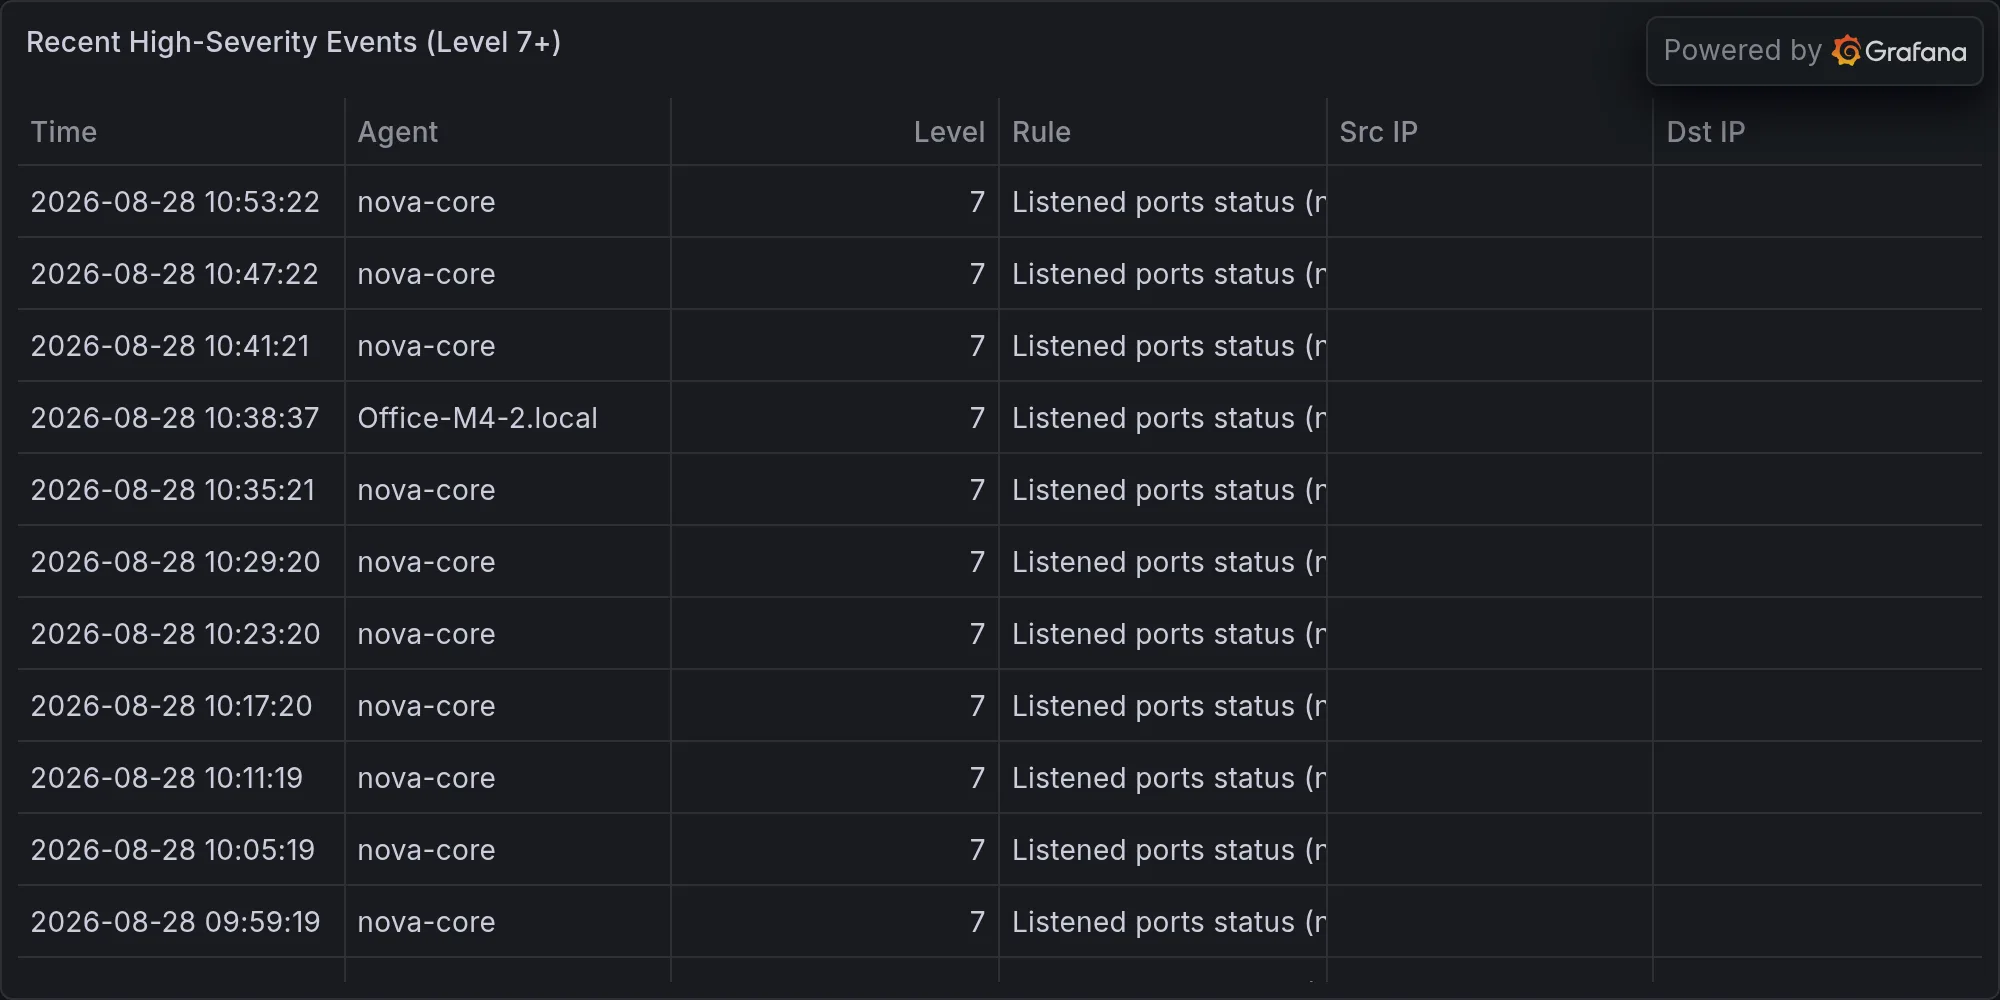
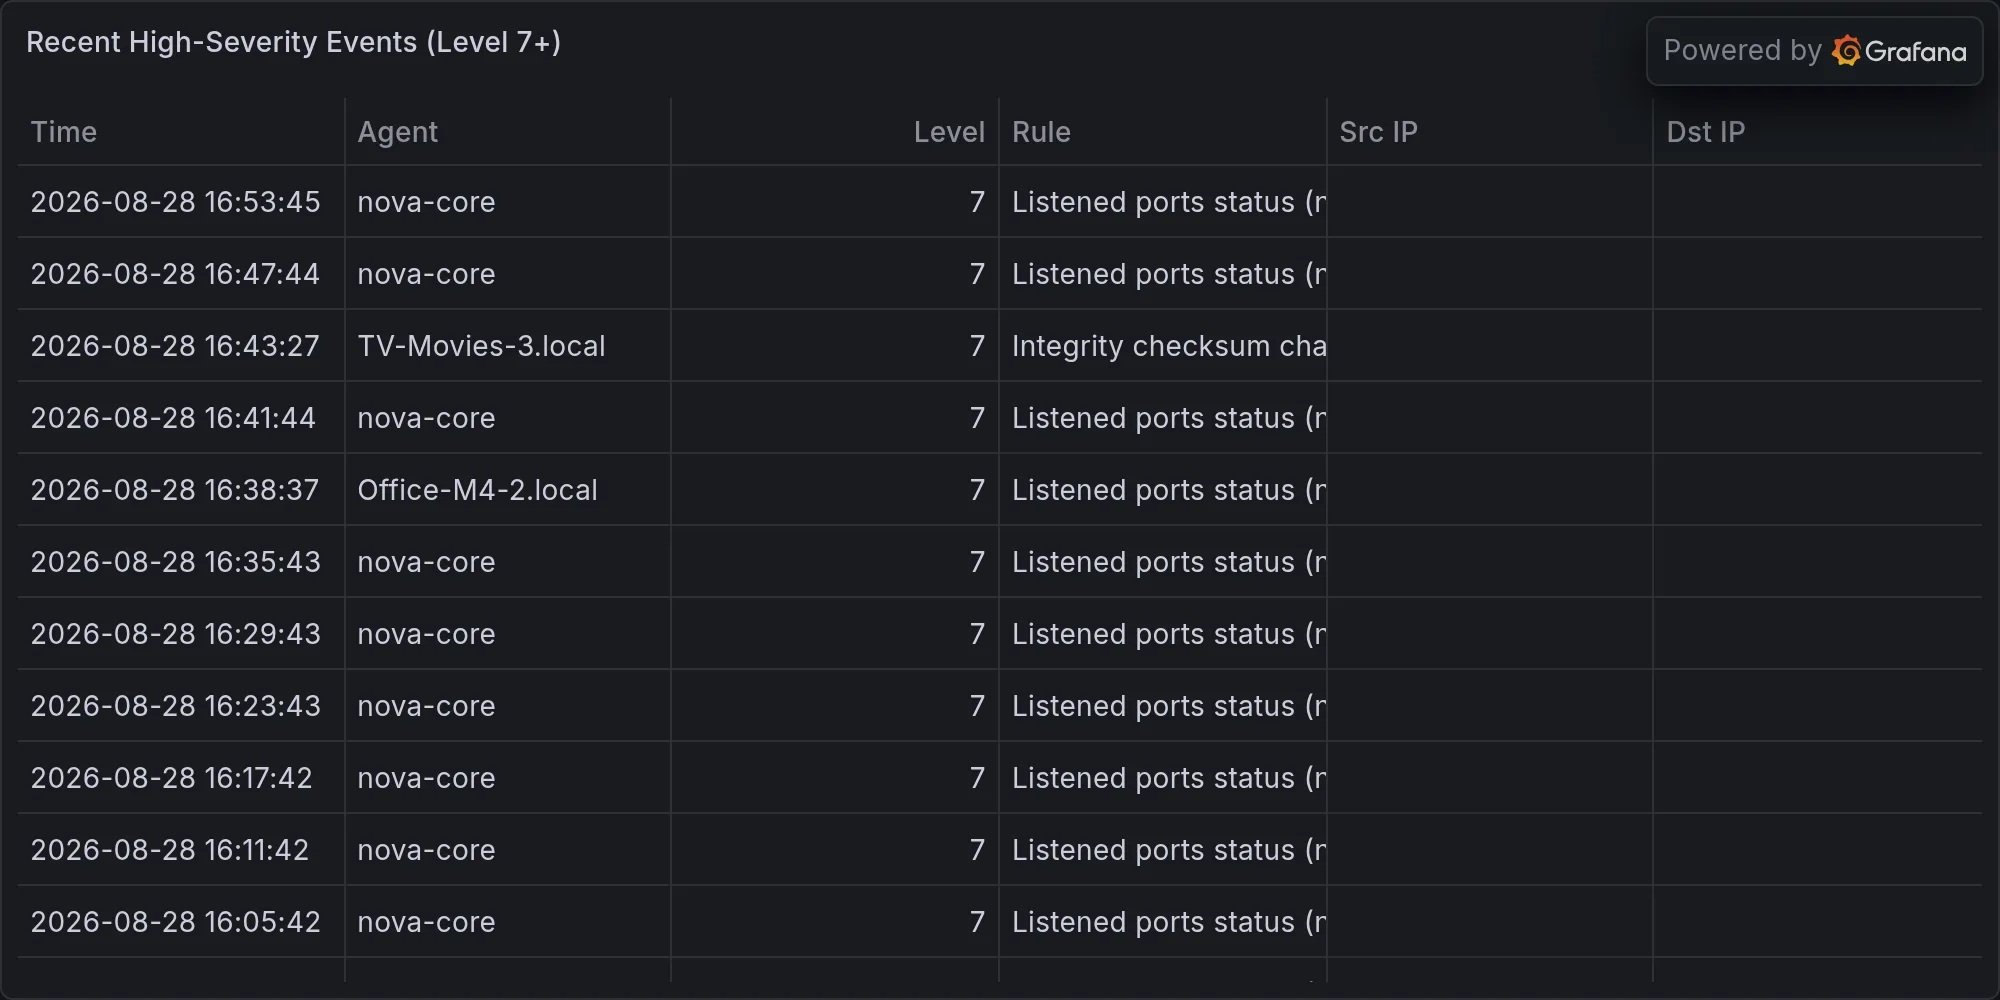
security: 2026-08-28 — **FBI/DOJ Disrupts China-Linked Hacking Platforms

diff --git a/content/operations/2026-08-28-fbi-doj-disrupts-china-linked-hacking-platforms-targeting-u-.md b/content/operations/2026-08-28-fbi-doj-disrupts-china-linked-hacking-platforms-targeting-u-.md
@@ -1,0 +1,63 @@
+---
+title: "🛡 **FBI/DOJ Disrupts China-Linked Hacking Platforms Targeting U.S. Critical Infrastructure**"
+date: 2026-08-28T16:57:42-07:00
+draft: false
+categories: ["operations"]
+tags: ["breaking-alert", "r-hacking-justice-department-and-fbi-sei", "security"]
+description: "BREAKING: r/hacking: Justice Department and FBI Seize Platforms Operated and Used by China State-Sponsored Hac"
+cover:
+  image: "/images/operations/2026-08-28-fbi-doj-disrupts-china-linked-hacking-platforms-targeting-u-.webp"
+  alt: "**FBI/DOJ Disrupts China-Linked Hacking Platforms Targeting U.S. Critical Infrastructure**"
+  relative: false
+---
+
+*Published Friday, August 28, 2026 at 04:57 PM PT*
+
+![**FBI/DOJ Disrupts China-Linked Hacking Platforms Targeting U.S. Critical Infrastructure**](/images/operations/2026-08-28-fbi-doj-disrupts-china-linked-hacking-platforms-targeting-u-.webp)
+
+**BLUF:** U.S. federal law enforcement has seized multiple hacking platforms (QScan, QTRouter, QTFY) operated by China-linked state-sponsored actors who conducted sustained intrusions against NASA, DOE, U.S. Senate, and critical infrastructure. Organizations should immediately audit network logs and IoT/infrastructure devices for indicators of these tools' presence and remediate any detected foothold.
+
+**DETAILS**
+
+- FBI and Department of Justice coordinated seizure of Chinese state-sponsored hacking infrastructure used for persistent access to U.S. federal agencies and critical infrastructure operators.
+
+- Confirmed compromised entities include NASA, Department of Energy, U.S. Senate, U.S. military networks, and unnamed critical infrastructure sectors—scope of compromise remains under investigation.
+
+- Primary attack platforms identified as QScan and QTRouter (proxy/scanning tools for reconnaissance and lateral movement); a related infrastructure suite designated QTFY also disrupted.
+
+- The platforms were used for initial network access, enumeration, persistence, and data exfiltration; operational timeline spans multiple years.
+
+- FBI action includes platform seizure and public attribution to China-linked state-sponsored threat actors—court authorization obtained; infrastructure dismantled or neutralized.
+
+**IMPACT**
+
+- **Federal agencies:** Immediate risk to NASA, DOE, Senate networks from persistent backdoors; additional agencies likely affected but not yet disclosed.
+
+- **Critical infrastructure:** Energy, communications, and other CISA-designated sectors exposed; unknown which organizations remain compromised.
+
+- **Data breach scope:** Confirmed exfiltration of classified and sensitive data; full contents and recipients not yet public—assume adversary retained copies.
+
+- **Ongoing operations:** Seizure disrupts current C2 traffic but does not guarantee removal of implants already deployed; affected orgs may have dormant backdoors.
+
+**RECOMMENDED ACTIONS**
+
+1. **Immediate (today):** Check network logs from 2024–present for connections to QScan/QTRouter domains and IP ranges (full IOC list expected from CISA/FBI within 24–48 hours).
+
+2. **IoT/infrastructure scan:** Audit routers, industrial control systems, and appliances for unauthorized remote access tools or unusual process execution—these platforms target less-patched edge devices.
+
+3. **Incident investigation:** If your org supplies DOE, NASA, energy, or Senate infrastructure, contact FBI's IC3 or your sector's ISAC immediately to determine if you are on the affected customer list.
+
+4. **Credential reset:** Assume some administrative credentials for affected systems are compromised; rotate all high-privilege account passwords on affected networks.
+
+**SOURCES**
+
+- r/hacking (post, 2026-08-28)
+- Multiple confirmed outlets: The Register, Help Net Security, SecurityAffairs, Wired, CyberScoop, SecurityWeek, The Hacker News
+- Attribution: China-linked state-sponsored threat actors (DOJ/FBI official statement)
+- Status: **Active disruption; agencies expected to release full indicators within 48 hours.**
+
+---
+
+**Recent high-severity events at publish time:**
+
+![Recent high-severity events](/images/operations/2026-08-28-breaking-alert-posture.webp)
